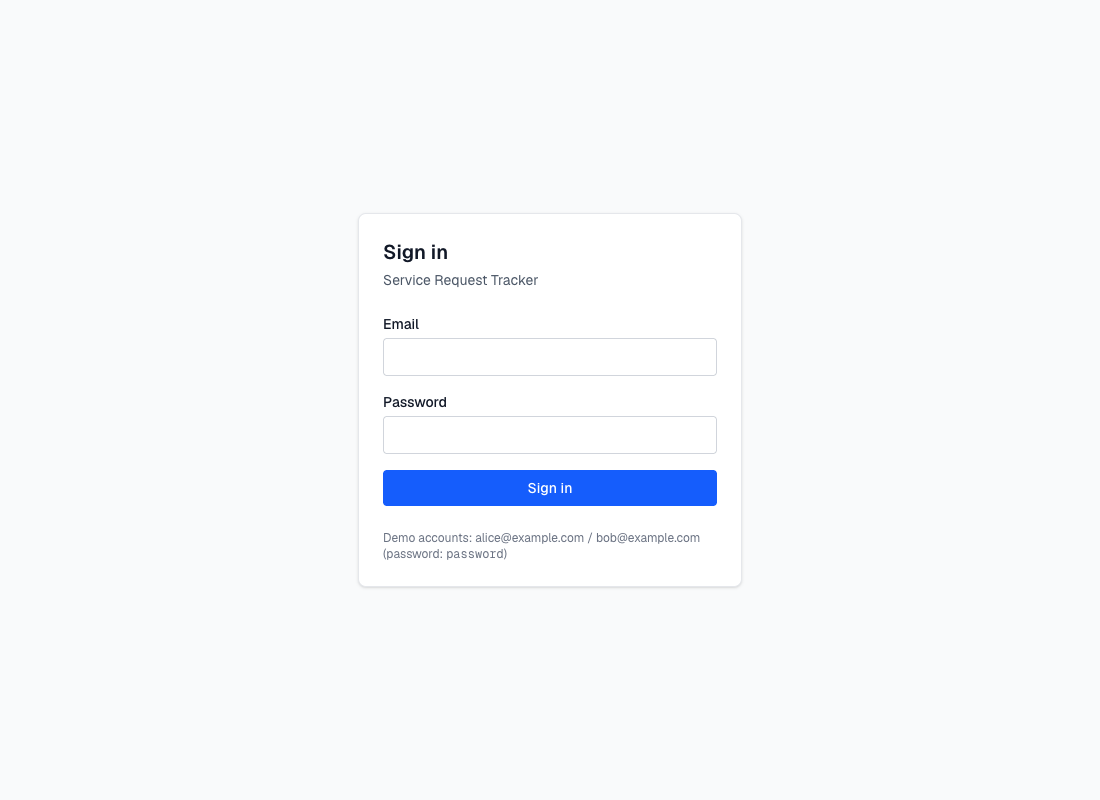
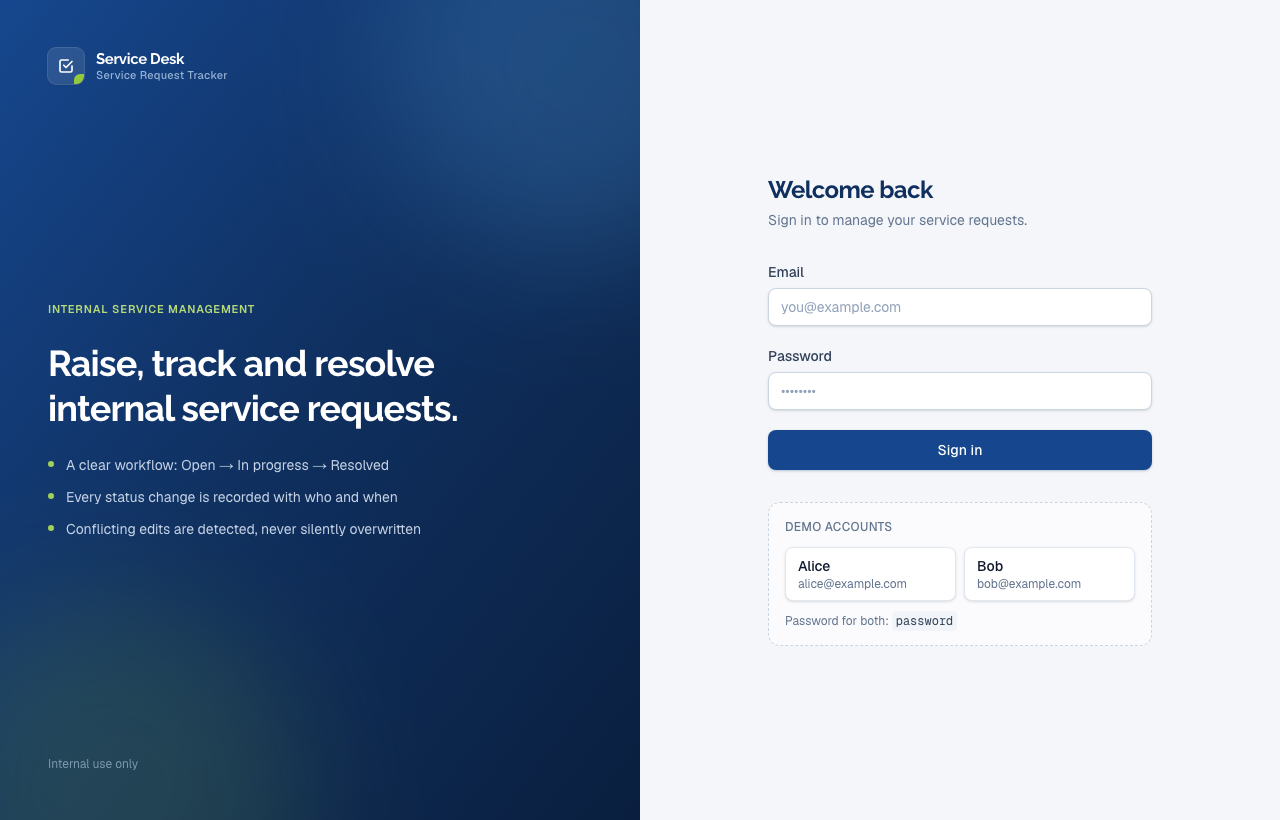
Update screenshots and README for the redesigned UI
Screenshots retaken from a full run of the workflow on freshly seeded
data: login, wrong password, list, combined filters, validation,
detail, transition, stale update (409), cross-user access and mobile.

diff --git a/README.md b/README.md
@@ -174,10 +174,13 @@ Any exception rolls back the whole transaction, so a failed update never leaves 
 
 - **Session-aware.** `AuthProvider` calls `/api/auth/me` on load. Pages under `/requests/*` sit behind `RequireAuth`, which redirects to `/login`. Any `401` from the API fires an event that signs the user out locally.
 - **List** (`/requests`). Search, status and priority filters plus pagination are stored in the URL query string, so they survive a refresh or the back button. All filtering and paging happens on the server. The page has loading, empty, "no matches" and error-with-retry states.
+- **Summary tiles.** Above the list, three tiles show how many requests are Open, In progress and Resolved; clicking one applies that status filter. The counts come from the existing list endpoint (`?status=X&per_page=1`, reading `meta.total`), so no extra API was added. With more statuses or heavy traffic I would replace this with one `GET /api/requests/summary` that returns grouped counts.
 - **Create** (`/requests/new`). The form checks inputs in the browser first, mirroring the server rules. Field errors from a `422` are shown next to each field, linked with `aria-describedby`.
 - **Detail** (`/requests/[id]`). Shows the current version and status, and a single action button for the next allowed status (taken from the server's `allowed_next_status`) with an optional remark. History is listed oldest first.
 - **Stale update (409).** The screen replaces its data with the latest request from the response, reloads the history, and explains that the request changed elsewhere. The user can then decide again using the fresh version.
-- Accessibility: every input has a `<label>`, alerts use `role="alert"`, there are live regions for status messages, and the layout is responsive (see the mobile screenshot).
+- **Detail** also shows a progress stepper (Open → In progress → Resolved) and the history as a timeline.
+- **Styling.** Plain Tailwind CSS, no component library. The colour palette comes from the Lalan Rubbers logo (navy `#16478E`, blue `#458BCA`, leaf green `#94C83D`) and is defined once as theme tokens in `src/app/globals.css`. Headings use Raleway.
+- Accessibility: every input has a `<label>` (the priority picker is a `<fieldset>` of radio buttons), alerts use `role="alert"`, there are live regions for status messages, and the layout is responsive (see the mobile screenshot).
 
 ---
 
@@ -223,11 +226,11 @@ Any exception rolls back the whole transaction, so a failed update never leaves 
 <!-- TODO (Sanjana): review this section and make sure every statement is accurate before submitting. -->
 
 - **Tools used:** Claude Code (AI coding assistant).
-- **Work assisted:** setting up the Laravel and Next.js projects, writing the backend (migrations, enums, controllers, `StatusTransitionService`, error handling), the feature tests, the Next.js pages, and drafting this README.
+- **Work assisted:** setting up the Laravel and Next.js projects, writing the backend (migrations, enums, controllers, `StatusTransitionService`, error handling), the feature tests, the Next.js pages, the visual redesign of the UI using the Lalan Rubbers brand colours, and drafting this README.
 - **Representative prompt:** *"Build this Service Request Tracker assignment (Laravel API + Next.js UI) exactly as the brief specifies, with Sanctum auth, optimistic locking for status changes and at least six tests."*
 - **How the output was verified and corrected:**
   - Ran `php artisan test` (22 tests passing) and read each test against the brief's acceptance criteria.
   - Called every endpoint by hand with `curl`: CSRF cookie → login → `/me` → create → valid, stale and invalid transitions → history → logout. This confirmed the status codes and the JSON shape, including `419` when the CSRF header is missing.
   - Drove the UI in a headless browser through the full flow: redirect when signed out, wrong password, filters, create with validation errors, transition, a stale update from a second tab, opening another user's request, logout, and the mobile layout. The screenshots above come from that run.
-  - Corrections made along the way: switched to PHPUnit 12's `#[DataProvider]` attribute after the docblock form failed; rewrote two React effects flagged by the `react-hooks/set-state-in-effect` lint rule; turned off Next.js's experimental `cacheComponents` flag, which the template enables by default and this client-rendered UI doesn't need.
+  - Corrections made along the way: switched to PHPUnit 12's `#[DataProvider]` attribute after the docblock form failed; rewrote two React effects flagged by the `react-hooks/set-state-in-effect` lint rule; turned off Next.js's experimental `cacheComponents` flag, which the template enables by default and this client-rendered UI doesn't need; during the redesign, found (from the screenshots) that the shared `.input`/`.btn-*` classes were overriding Tailwind utilities such as `pl-9`, checked the compiled CSS to confirm it, and switched those few overrides to Tailwind's `!` modifier.
 - **Independent technical decision:** <!-- TODO (Sanjana): describe one decision you made yourself and why. -->
